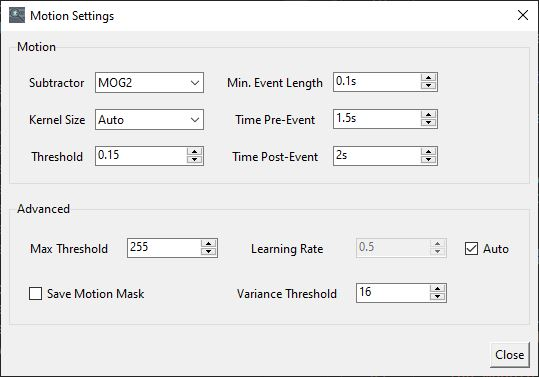
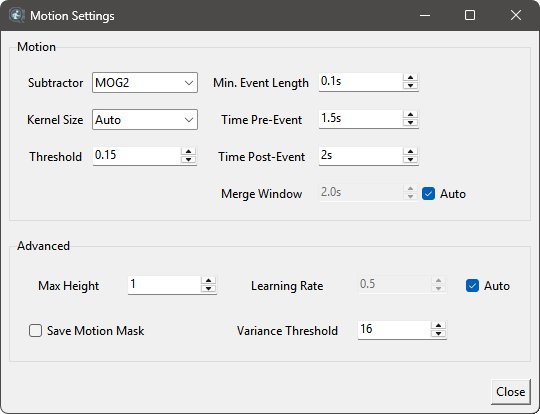
[docs] Refresh app screenshots for 2.0 release

diff --git a/dvr_scan/app/thumbnails.py b/dvr_scan/app/thumbnails.py
@@ -50,6 +50,8 @@ FILMSTRIP_FRAMES = 4
 # Gap (px) and its color between adjacent frames in the strip.
 FILMSTRIP_GAP = 2
 FILMSTRIP_GAP_COLOR = (20, 20, 20)
+# Space (px) between a filmstrip and the text in the same cell (classic input list).
+THUMBNAIL_TEXT_GAP = 8
 # Nominal per-frame width (16:9), used to size the placeholder and column before any
 # real frame (whose true aspect ratio may differ) has been decoded.
 _NOMINAL_FRAME_WIDTH = round(THUMBNAIL_HEIGHT * 16 / 9)
@@ -97,9 +99,21 @@ def filmstrip_placeholder(height: int = THUMBNAIL_HEIGHT) -> PIL.Image.Image:
     return PIL.Image.new("RGB", (FILMSTRIP_WIDTH, height), PLACEHOLDER_COLOR)
 
 
-def to_photo(image: PIL.Image.Image) -> PIL.ImageTk.PhotoImage:
-    """Wrap a `PIL.Image` as a Tk image. Must be called on the UI thread."""
-    return PIL.ImageTk.PhotoImage(image)
+def pad_right(image: PIL.Image.Image, margin: int) -> PIL.Image.Image:
+    """Return `image` with `margin` transparent pixels appended on the right. Used to put
+    space between a thumbnail and the text that follows it in the same treeview cell,
+    which ttk offers no option for. Returns `image` unchanged when `margin` is 0."""
+    if margin <= 0:
+        return image
+    padded = PIL.Image.new("RGBA", (image.width + margin, image.height), (0, 0, 0, 0))
+    padded.paste(image, (0, 0))
+    return padded
+
+
+def to_photo(image: PIL.Image.Image, margin_right: int = 0) -> PIL.ImageTk.PhotoImage:
+    """Wrap a `PIL.Image` as a Tk image, optionally with a transparent right margin (see
+    `pad_right`). Must be called on the UI thread."""
+    return PIL.ImageTk.PhotoImage(pad_right(image, margin_right))
 
 
 def configure_thumbnail_rows(style_name: str = THUMBNAIL_STYLE) -> str:
@@ -137,11 +151,15 @@ class ThumbnailLoader:
         height: int = THUMBNAIL_HEIGHT,
         poll_interval_ms: int = POLL_INTERVAL_MS,
         apply_image: ty.Optional[ApplyImage] = None,
+        text_gap: int = 0,
     ):
+        """`text_gap` adds a transparent right margin to each thumbnail, for cells where
+        text follows the image (see `pad_right`)."""
         self._widget = widget
         self._apply_image = apply_image if apply_image is not None else self._apply_to_tree
         self._height = height
         self._poll_interval_ms = poll_interval_ms
+        self._text_gap = text_gap
         self._jobs: "queue.Queue[ty.Optional[ty.Tuple[str, FrameProvider]]]" = queue.Queue()
         self._results: "queue.Queue[ty.Tuple[str, ty.Optional[PIL.Image.Image]]]" = queue.Queue()
         self._photos: ty.Dict[str, PIL.ImageTk.PhotoImage] = {}
@@ -209,7 +227,7 @@ class ThumbnailLoader:
                 iid, image = self._results.get_nowait()
                 self._pending -= 1
                 if image is not None:
-                    photo = to_photo(image)
+                    photo = to_photo(image, margin_right=self._text_gap)
                     if self._apply_image(iid, photo):
                         self._photos[iid] = photo
         except queue.Empty:

diff --git a/dvr_scan/app/application.py b/dvr_scan/app/application.py
@@ -47,6 +47,7 @@ from dvr_scan.app.thumbnails import (
     FILMSTRIP_FRAMES,
     FILMSTRIP_WIDTH,
     THUMBNAIL_STYLE,
+    THUMBNAIL_TEXT_GAP,
     ThumbnailLoader,
     configure_thumbnail_rows,
     filmstrip_placeholder,
@@ -214,8 +215,9 @@ class InputArea:
         )
         # Each row gets a filmstrip preview (frames sampled across the video) decoded off
         # the UI thread; a shared placeholder is shown until the real strip is ready.
-        self._thumbnails = ThumbnailLoader(self._videos)
-        self._placeholder = to_photo(filmstrip_placeholder())
+        # The filename follows the filmstrip in the same cell, so pad the image.
+        self._thumbnails = ThumbnailLoader(self._videos, text_gap=THUMBNAIL_TEXT_GAP)
+        self._placeholder = to_photo(filmstrip_placeholder(), margin_right=THUMBNAIL_TEXT_GAP)
 
         scroll_horizontal = ttk.Scrollbar(frame, orient=tk.HORIZONTAL, command=self._videos.xview)
         scroll_vertical = ttk.Scrollbar(frame, orient=tk.VERTICAL, command=self._videos.yview)
@@ -427,7 +429,7 @@ class InputArea:
         self._videos.delete(*self._videos.get_children())
         # Drop pending thumbnail jobs so they don't target deleted rows, then start fresh.
         self._thumbnails.cancel()
-        self._thumbnails = ThumbnailLoader(self._videos)
+        self._thumbnails = ThumbnailLoader(self._videos, text_gap=THUMBNAIL_TEXT_GAP)
         self._refresh_remove_state()
 
     def _refresh_remove_state(self):

diff --git a/tests/test_thumbnails.py b/tests/test_thumbnails.py
@@ -78,3 +78,19 @@ def test_filmstrip_image_concatenates_frames():
 def test_filmstrip_image_empty_falls_back_to_placeholder():
     image = filmstrip_image([], height=54)
     assert image.size == placeholder_image(height=54).size
+
+
+def test_pad_right_adds_transparent_margin():
+    import PIL.Image
+
+    from dvr_scan.app.thumbnails import pad_right
+
+    image = PIL.Image.new("RGB", (10, 4), PLACEHOLDER_COLOR)
+    padded = pad_right(image, 8)
+    assert padded.size == (18, 4)
+    assert padded.mode == "RGBA"
+    # Original pixels kept, margin fully transparent.
+    assert padded.getpixel((0, 0))[:3] == PLACEHOLDER_COLOR
+    assert padded.getpixel((17, 0))[3] == 0
+    # Zero margin is a no-op (same object, no mode change).
+    assert pad_right(image, 0) is image

diff --git a/docs/guide.md b/docs/guide.md
@@ -13,6 +13,18 @@ After installation, you can run DVR-Scan by clicking on the application shortcut
 
 DVR-Scan has two views. The <b>Scan Wizard</b> walks you through a scan step by step: add videos, pick a preset, choose an output folder, and scan. <b>Advanced Mode</b> (the classic view described below) shows all settings at once. You can switch between them at any time using <b>File -> Wizard</b> in Advanced Mode, or the <b>Advanced Mode</b> button in the wizard.
 
+The wizard opens on the <b>Add Videos</b> step. Click the drop zone (or drag and drop files onto the window) to add one or more videos, then press <b>Next</b>:
+
+<img alt="[Scan Wizard: Add Videos]" src="../assets/app-wizard-videos.jpg"/>
+
+Next, pick a <b>Preset</b>. <b>Default</b> uses your saved settings; the other presets trade sensitivity for speed. You can also adjust the sensitivity threshold directly, where lower values detect smaller amounts of motion:
+
+<img alt="[Scan Wizard: Choose Preset]" src="../assets/app-wizard-preset.jpg"/>
+
+On the <b>Choose Output</b> step, select how events should be saved (or <b>Scan Only</b> to just produce a report), review your choices, and press <b>Start Scan</b>. The scan runs in place, and the detected events are listed when it finishes:
+
+<img alt="[Scan Wizard: Scan Results]" src="../assets/app-wizard-scan.jpg"/>
+
 New installs start in the wizard, while existing installs keep Advanced Mode. To change which view opens at startup, use <b>File -> Startup Mode</b> in either view (this sets the [`startup-mode`](docs.md#config-file) config option). To force a view for a single launch, run `dvr-scan-app --startup-mode wizard` or `dvr-scan-app --startup-mode classic`.
 
 ### Advanced Mode
@@ -23,12 +35,9 @@ Start by clicking the <b>Add</b> button to add one or more videos:
 
 You can select several videos at once with Shift-click, Ctrl-click, or Command-click on Mac. Select every video with `Ctrl + A` (`Command + A` on Mac). To remove the selected videos, use the `Delete` key or the <b>Remove</b> button. These actions are also available from the <b>Edit</b> menu.
 
-To extract and save the motion events from the input, click the <b>Start</b> button. You will be prompted for a location to save the events to, after which scanning will begin:
+To extract and save the motion events from the input, click the <b>Start</b> button. You will be prompted for a location to save the events to, after which scanning will begin in a separate progress window. Once complete, each event will be saved to the output folder you selected.
 
-
-<img alt="[Scan Window]" src="../assets/app-scan-window.jpg"/>
-
-Once complete, each event will be saved to the output folder you selected.  To tune motion sensitivity, go to <b>Settings -> Motion</b> and adjust threshold, where lower values are more sensitive to motion, and higher values are less sensitive.  You can also adjust event settings and more:
+To tune motion sensitivity, go to <b>Settings -> Motion</b> and adjust threshold, where lower values are more sensitive to motion, and higher values are less sensitive.  You can also adjust event settings and more:
 
 
 <img alt="[Motion Settings Window]" src="../assets/app-motion-settings.jpg"/>

diff --git a/docs/index.md b/docs/index.md
@@ -26,9 +26,9 @@ DVR-Scan is a command-line application that **automatically detects motion event
 
 ### UI
 
-Launch DVR-Scan from the shortcut or run the `dvr-scan-app` command.  Press **Add** to add your input videos, and press **Start** to find and extract segments with motion:
+Launch DVR-Scan from the shortcut or run the `dvr-scan-app` command.  The Scan Wizard walks you through each step: add your input videos, pick a preset, choose where to save the output, and press **Start Scan** to find and extract segments with motion:
 
-<img alt="ui example" src="assets/app-main-window.jpg" width="480"/>
+<img alt="ui example" src="assets/app-wizard-videos.jpg" width="480"/>
 
 To limit detection to certain areas, press **Set Regions** and use [the **Region Editor**](guide.md#region-editor). Motion sensitivity can be adjusted under **Settings -> Motion**.  See the [User Guide](guide.md) for more information.
 

diff --git a/docs/index_docs.md b/docs/index_docs.md
@@ -26,9 +26,9 @@ DVR-Scan is a command-line application that **automatically detects motion event
 
 ### UI
 
-Launch DVR-Scan from the shortcut or run the `dvr-scan-app` command.  Press **Add** to add your input videos, and press **Start** to find and extract segments with motion:
+Launch DVR-Scan from the shortcut or run the `dvr-scan-app` command.  The Scan Wizard walks you through each step: add your input videos, pick a preset, choose where to save the output, and press **Start Scan** to find and extract segments with motion:
 
-<img alt="ui example" src="assets/app-main-window.jpg" width="480"/>
+<img alt="ui example" src="assets/app-wizard-videos.jpg" width="480"/>
 
 To limit detection to certain areas, press **Set Regions** and use [the **Region Editor**](guide.md#region-editor). Motion sensitivity can be adjusted under **Settings -> Motion**.  See the [User Guide](guide.md) for more information.
 

diff --git a/README.md b/README.md
@@ -26,9 +26,9 @@ Windows builds (installer + portable) are also available on [the Downloads page]
 
 ## Quickstart (UI)
 
-Start DVR-Scan (run `dvr-scan-app` or click the app shortcut), **Add** your input videos, and hit **Start**:
+Start DVR-Scan (run `dvr-scan-app` or click the app shortcut). The Scan Wizard walks you through each step: add your input videos, pick a preset, choose where to save the output, and hit **Start Scan**:
 
-<img alt="main app window" src="https://www.dvr-scan.com/assets/app-main-window.jpg" width="480"/>
+<img alt="scan wizard" src="https://www.dvr-scan.com/assets/app-wizard-videos.jpg" width="480"/>
 
 See the [User Guide](https://www.dvr-scan.com/guide/) for a more comprehensive overview.
 
